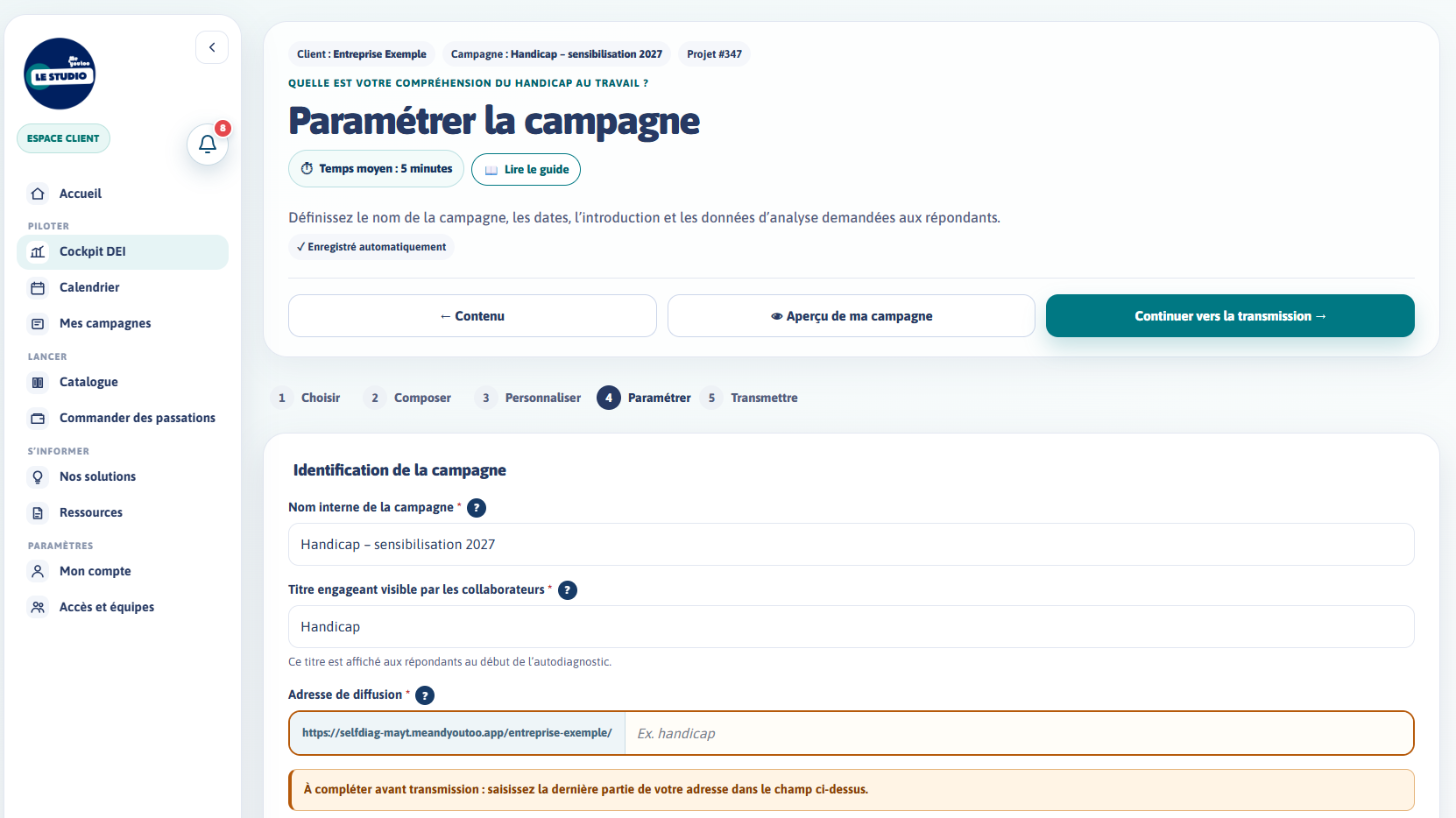
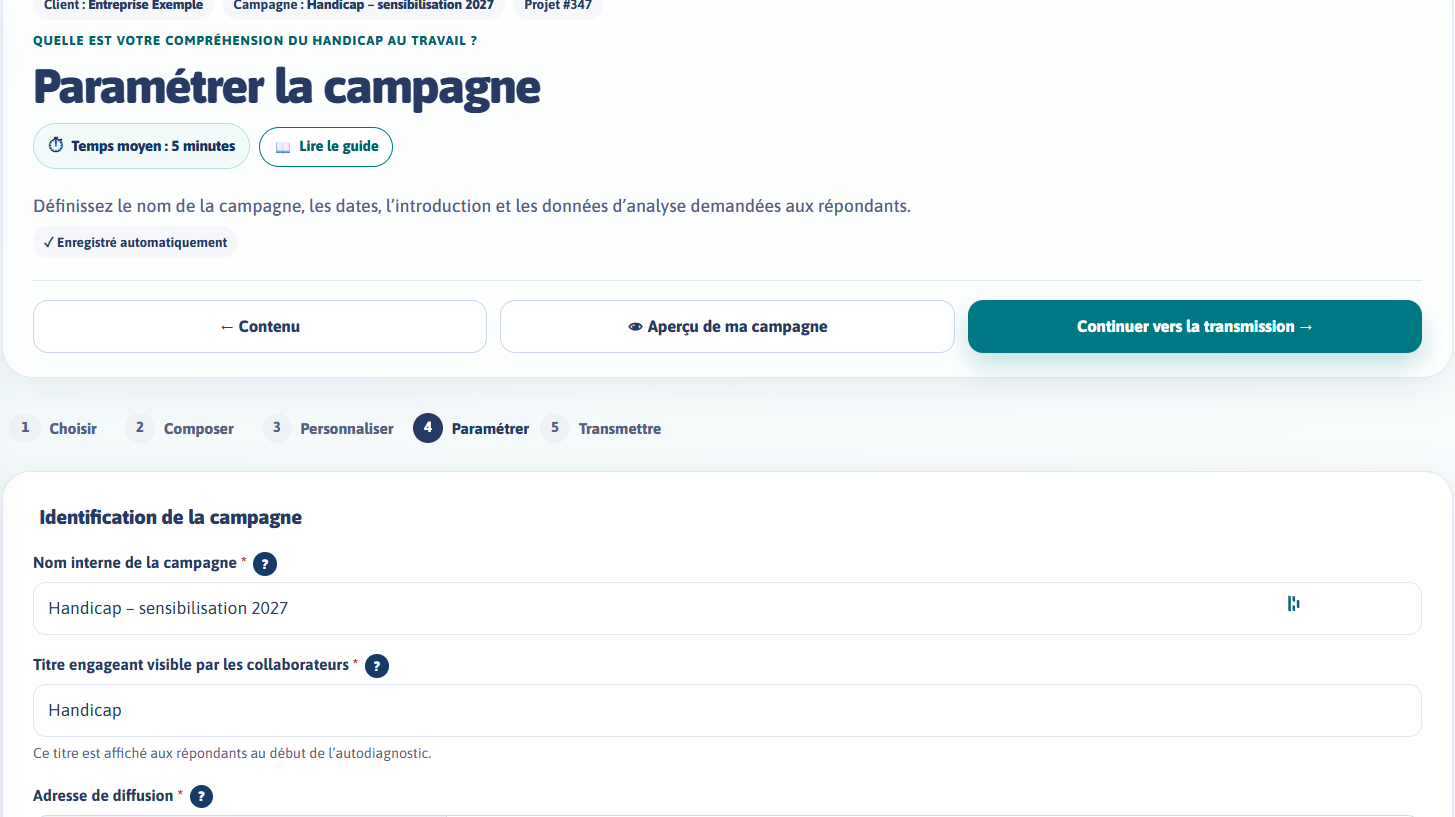
Tutoriel Paramétrer : captures nettes recadrées sans agrandissement, rythme d'une voix (1 min 16), introduction de référence

diff --git a/tutos/parametrer/index.html b/tutos/parametrer/index.html
@@ -5,7 +5,7 @@
 <meta name="viewport" content="width=device-width, initial-scale=1">
 <title>Paramétrer sa campagne — Tutoriel Studio Me&amp;YouToo</title>
 <meta name="robots" content="noindex,nofollow">
-<link rel="stylesheet" href="../lecteur.css?v=20261103-2">
+<link rel="stylesheet" href="../lecteur.css?v=20261103-3">
 </head>
 <body>
 <div class="tuto" id="tuto"></div>
@@ -15,24 +15,24 @@
 window.TUTO={
   eyebrow:'Tutoriel · Étape 4 sur 5',
   title:'Paramétrer sa campagne',
-  intro:'Nom, introduction, dates, passations et données d’analyse : tout ce qu’il faut régler avant de transmettre. Environ 2 minutes.',
+  intro:'Nom, introduction, dates, passations et données d’analyse : tout ce qu’il faut régler avant de transmettre. Environ 1 minute 30.',
   scenes:[
-    {img:'ecran-1.png',box:[18.1,46.5,80.8,4.3],zoom:false,text:'Vous avez composé votre diagnostic. Place au paramétrage : c’est ici que vous décidez comment et quand votre campagne sera diffusée. Tout est enregistré au fur et à mesure.'},
-    {img:'ecran-1.png',box:[19.8,60,77.4,22],text:'Commencez par le nom interne, qui sert à retrouver la campagne dans votre Studio, puis le titre que verront vos collaborateurs au début de l’autodiagnostic.'},
-    {img:'ecran-1.png',box:[19.8,85.8,77.4,14],text:'Pour l’adresse de diffusion, saisissez seulement la fin, par exemple « handicap-2027 » : le nom de votre entreprise est ajouté automatiquement.'},
-    {img:'ecran-2.png',box:[19.8,4.3,38.1,54.3],text:'L’introduction est le premier texte que liront vos collaborateurs. Elle explique la démarche et rassure sur l’anonymat. Adaptez-la à votre organisation, dans chaque langue de la campagne.'},
-    {img:'ecran-3.png',box:[19.8,27.8,77.4,22],text:'Choisissez ensuite les dates de lancement et de clôture. Laissez au moins cinq jours avant le lancement : c’est le temps de la relecture par Me&YouToo.'},
-    {img:'ecran-3.png',box:[19.8,52.4,77.4,46.5],text:'Le Studio compare vos passations disponibles à celles prévues pour cette campagne. Cette estimation ne consomme aucune passation. S’il en manque, vous pouvez commander un pack directement.'},
-    {img:'ecran-4.png',box:[19.8,2.5,26.5,30],text:'Vient l’étape la plus importante : les données d’analyse. Ces questions, posées avant l’autodiagnostic, permettent de lire les résultats par grands groupes.'},
-    {img:'ecran-5.png',box:[19.8,25.2,77.4,15.4],text:'Ajoutez celles qui vous sont utiles : tranche d’âge, fonction, région, managers ou collaborateurs. Choisissez-en au moins une. Le genre est obligatoire pour les thématiques Sexisme et Alliés de la mixité.'},
-    {img:'ecran-4.png',box:[19.8,60.9,77.4,20.2],text:'Le Studio veille à l’anonymat. Il estime la taille du plus petit groupe obtenu en croisant vos données d’analyse.'},
-    {img:'ecran-5.png',box:[19.8,0,77.4,24],text:'Si ce groupe compte moins de huit personnes, il vous alerte et vous propose de retirer un critère, ou de regrouper des réponses en catégories plus larges.'},
-    {img:'ecran-6.png',box:[19.8,76.5,77.4,23.5],text:'Si vous le souhaitez, ajoutez des ressources que vos collaborateurs découvriront à la fin : une page intranet, un e-learning, un guide.'},
-    {img:'ecran-1.png',box:[45.8,35.4,51.4,6.2],text:'Enfin, ouvrez l’aperçu de votre campagne pour la voir comme vos collaborateurs, puis cliquez sur « Continuer vers la transmission ».'}
+    {img:'ecran-1.png',box:[0.2,49.7,99.7,5.3],text:'Place au paramétrage : vous décidez ici comment et quand votre campagne sera diffusée. Tout est enregistré au fur et à mesure.'},
+    {img:'ecran-1.png',box:[1.8,67,96.2,24],text:'Le nom interne sert à retrouver la campagne dans votre Studio. Le titre est celui que verront vos collaborateurs.'},
+    {img:'ecran-2.png',box:[1.8,37,96.2,15],text:'Pour l’adresse de diffusion, saisissez seulement la fin, par exemple « handicap-2027 ». Le nom de votre entreprise est ajouté automatiquement.'},
+    {img:'ecran-3.png',box:[1.8,2,48.6,69],text:'L’introduction est le premier texte que liront vos collaborateurs. Adaptez-la à votre organisation, dans chaque langue de la campagne.'},
+    {img:'ecran-4.png',box:[1.8,1,96.2,27],text:'Choisissez les dates de lancement et de clôture. Laissez au moins cinq jours pour la relecture par Me&YouToo.'},
+    {img:'ecran-4.png',box:[1.8,31.5,96.2,57],text:'Le Studio vérifie que votre pack couvre les passations prévues. S’il en manque, vous pouvez commander un pack d’ici.'},
+    {img:'ecran-5.png',box:[1.8,1.5,33,37.5],text:'Les données d’analyse sont des questions posées avant l’autodiagnostic. Elles permettent de lire les résultats par grands groupes.'},
+    {img:'ecran-6.png',box:[2.3,26,95.4,18.6],text:'Ajoutez celles qui vous sont utiles : âge, fonction, région… Au moins une est requise. Le genre est obligatoire pour Sexisme et Alliés de la mixité.'},
+    {img:'ecran-5.png',box:[2.3,73.6,95.4,25],text:'Le Studio veille à l’anonymat : il estime le plus petit groupe obtenu en croisant vos données.'},
+    {img:'ecran-6.png',box:[2.3,0,95.4,24],text:'Sous huit personnes, il vous propose de retirer un critère ou de regrouper des réponses.'},
+    {img:'ecran-7.png',box:[1.8,30.5,96.2,40.5],text:'Vous pouvez aussi ajouter des ressources à découvrir en fin de parcours : page intranet, e-learning, guide.'},
+    {img:'ecran-1.png',box:[34,36,64,7.6],text:'Vérifiez l’aperçu de votre campagne, puis cliquez sur « Continuer vers la transmission ».'}
   ],
   end:{title:'Votre campagne est paramétrée',text:'Dernière étape : vérifier et transmettre à Me&YouToo. Une question ? Le chat et l’équipe Me&YouToo sont là pour vous.'}
 };
 </script>
-<script src="../lecteur.js?v=20261103-2"></script>
+<script src="../lecteur.js?v=20261103-3"></script>
 </body>
 </html>

diff --git a/tutos/lecteur.js b/tutos/lecteur.js
@@ -4,9 +4,10 @@
 (function(){
 'use strict';
 var T=window.TUTO;if(!T)return;
-var CARD=3.5,END=4;
+var CARD=2.5,END=4;
 function esc(v){return String(v==null?'':v).replace(/[&<>"']/g,function(c){return {'&':'&amp;','<':'&lt;','>':'&gt;','"':'&quot;',"'":'&#39;'}[c];});}
-function readTime(text){return Math.max(4.5,String(text).split(/\s+/).length/2.6+1.4);}
+// Rythme d’une voix posée : environ 3,2 mots par seconde, sans temps mort.
+function readTime(text){return Math.max(3,String(text).split(/\s+/).length/3.2+0.3);}
 var root=document.getElementById('tuto');
 var imgs=[];T.scenes.forEach(function(s){if(imgs.indexOf(s.img)<0)imgs.push(s.img);});
 root.innerHTML='<div class="tuto-stage" role="region" aria-label="Tutoriel animé"><div class="tuto-frame"><div class="tuto-canvas">'+
@@ -39,13 +40,14 @@ var t=0,playing=false,last=0,current=-2;
 function sceneAt(time){if(time<CARD&&!(audio&&T.scenes[0].at===0))return -1;for(var i=starts.length-1;i>=0;i--)if(time>=starts[i])return i;return -1;}
 function fmt(s){s=Math.max(0,Math.round(s));return Math.floor(s/60)+':'+String(s%60).padStart(2,'0');}
 // La capture garde ses proportions (1456 × 818) dans la place disponible.
-function fit(){var f=$('.tuto-frame'),w=f.clientWidth,h=f.clientHeight,r=1456/818;if(w/h>r)w=h*r;else h=w/r;canvas.style.width=w+'px';canvas.style.height=h+'px';}
+function fit(){var f=$('.tuto-frame'),w=f.clientWidth,h=f.clientHeight,r=1456/818;if(w/h>r)w=h*r;else h=w/r;if(w>1456){w=1456;h=818;}canvas.style.width=w+'px';canvas.style.height=h+'px';}
 function frame(s){
   imgEls.forEach(function(el){el.classList.toggle('is-on',el.getAttribute('src')===s.img);});
   var W=canvas.offsetWidth,H=canvas.offsetHeight,b=s.box;
   if(!b){caption.classList.remove('is-top');box.hidden=true;canvas.style.transform='';pointer.style.opacity=0;return;}
   box.hidden=false;box.style.left=b[0]+'%';box.style.top=b[1]+'%';box.style.width=b[2]+'%';box.style.height=b[3]+'%';
-  var k=s.zoom===false?1:Math.max(1,Math.min(1.7,82/b[2],78/b[3]));
+  // Pas d’agrandissement : chaque plan a sa propre capture, nette à taille réelle.
+  var k=1;
   var cx=(b[0]+b[2]/2)/100*W,cy=(b[1]+b[3]/2)/100*H;
   var tx=Math.min(0,Math.max(W-W*k,W/2-cx*k)),ty=Math.min(0,Math.max(H-H*k,H/2-cy*k));
   canvas.style.transform='translate('+tx+'px,'+ty+'px) scale('+k+')';
